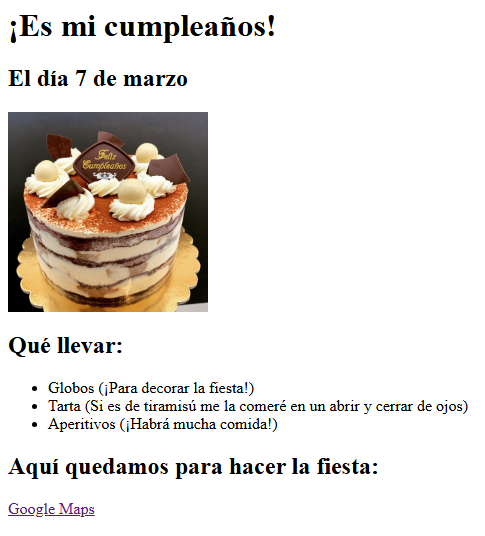
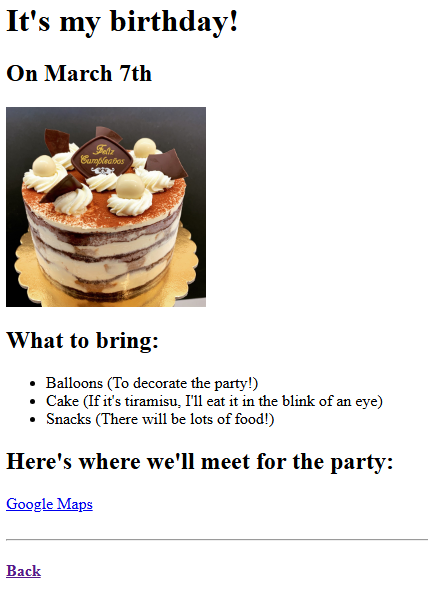
Second Commit

Changed region(s): [[0.0, 0.0, 0.5771, 0.597], [0.0, 0.6269, 0.972, 0.8955], [0.0, 0.9254, 0.2126, 0.9851]]

diff --git a/pages/pelis.html b/pages/pelis.html
@@ -1,18 +1,18 @@
-<!-- Write your code below -->
- <h1>Las mejores películas de acuerdo a Fernando</h1>
- <h2>Mi Top 3 de Películas</h2>
- <hr />
- <h3>Oppenheimer</h3>
- <p>Cuando vi esta película, no pude describir lo que sentía. Una mezcla de emoción, nervios y felicidad que me recorría por todo el cuerpo. Simplemente me encantó, desde la historia, pasando por los escenarios, las vestimentas, la ambientación, la música, el sonido, los personajes, hasta la actuación y cómo se desarrollaron las escenas. Una pasada</p> <img src="https://pics.filmaffinity.com/Oppenheimer-828933592-large.jpg" alt="Oppenheimer" width="200" height="300">
- <br>
- <h3>Evangelion 3.0+1.0</h3>
-    <p>Evangelion 3.0+1.0: Thrice Upon a Time es una película que se convirtió en mi favorita de estilo anime. Ya no solo por cómo concluye la historia que las anteriores películas fueron construyendo, sino la animación, la ejecución, los valores, la música, los personajes... Sin duda, mi segunda película favorita.</p>
-    <img src="https://s4.anilist.co/file/anilistcdn/media/anime/cover/large/bx3786-Tpt9iM72dxTv.jpg" alt="Evangelion 3.0+1.0" width="200" height="300">
-    <br>
- <h3>Look Back</h3>
- <p>Look Back es una película que vi con mi novia hace ya un tiempo. La premisa es simple, unas chicas que se conocen porque ambas publican para el periódico de su escuela, una paisajes y la otra tiras cómicas. Se hacen amigas y deciden formar un dúo de mangakas. El resto ya sería spoiler por lo que no contaré más, pero es otra película que vale la pena ver.</p>
- <img src="https://s4.anilist.co/file/anilistcdn/media/anime/cover/large/bx174788-9LsUnn0oEppv.jpg" alt="Look Back" width="200" height="300">
+<h1>The Best Movies According to Mystden</h1>
+<h2>My Top 3 Movies</h2>
+<hr />
+<h3>Oppenheimer</h3>
+<p>When I saw this movie, I couldn't describe what I felt. A mix of emotion, nervousness, and happiness that ran through my entire body. I simply loved it, from the story, to the settings, the costumes, the atmosphere, the music, the sound, the characters, and how the scenes developed. Amazing.</p>
+<img src="https://pics.filmaffinity.com/Oppenheimer-828933592-large.jpg" alt="Oppenheimer" width="200" height="300">
+<br>
+<h3>Evangelion 3.0+1.0</h3>
+<p>Evangelion 3.0+1.0: Thrice Upon a Time is a movie that became my favorite anime-style film. Not just for how it concludes the story that the previous movies were building, but for the animation, execution, values, music, characters... Without a doubt, my second favorite movie.</p>
+<img src="https://s4.anilist.co/file/anilistcdn/media/anime/cover/large/bx3786-Tpt9iM72dxTv.jpg" alt="Evangelion 3.0+1.0" width="200" height="300">
+<br>
+<h3>Look Back</h3>
+<p>Look Back is a movie I watched with my girlfriend some time ago. The premise is simple: two girls who meet because they both publish in their school newspaper, one landscapes and the other comic strips. They become friends and decide to form a mangaka duo. The rest would be a spoiler so I won't tell more, but it's another movie worth watching.</p>
+<img src="https://s4.anilist.co/file/anilistcdn/media/anime/cover/large/bx174788-9LsUnn0oEppv.jpg" alt="Look Back" width="200" height="300">
 <br><br>
- <hr />
-<a href="./proyectos.html"><h4>Volver</h4></a>
+<hr />
+<a href="./proyectos.html"><h4>Back</h4></a>
 <br>

diff --git a/index.html b/index.html
@@ -1,16 +1,48 @@
 <!DOCTYPE html>
-<html lang="es-ES">
+<html lang="en">
 <head>
     <meta charset="UTF-8">
     <meta name="viewport" content="width=device-width, initial-scale=1.0">
     <title>Capstone Project - HTML</title>
 </head>
 <body>
-    <h2>Proyecto final - HTML</h2>
-   <p>¡Hey, hola! Soy <strong>Mystden</strong>, un desarrollador web junior. Este es mi proyecto final de HTML, siguiendo el curso <br> <a href="https://www.udemy.com/course/the-complete-web-development-bootcamp/">The Complete Full-Stack Web Development Bootcamp
-</a> de <strong>Angela Yu</strong> en el que muestro mis proyectos <br>(una invitación de cumpleaños y una lista de películas). <br> Espero que lo disfrutes.</p>
-<hr />
-  <a href="./pages/proyectos.html"><h4>Proyectos</h4></a>
-  <a href="./pages/sobremi.html"><h4>Sobre mí</h4></a>
+    <header>
+        <h1>Hello, I'm Mystden</h1>
+    </header>
+
+    <main>
+        <section>
+            <p>Welcome to my HTML portfolio! I am a Spanish student of 19 years passionate about programming and web development.</p>
+            <p>I love learning new technologies and constantly improving my skills.</p>
+        </section>
+
+        <section>
+            <h2>Skills</h2>
+            <ul>
+                <li>Git ✅</li>
+                <li>GitHub ✅</li>
+                <li>SQL ✅</li>
+                <li>HTML ✅</li>
+                <li>Linux ✅</li>
+                <li>Windows ✅</li>
+            </ul>
+        </section>
+
+        <section>
+            <h2>Interests</h2>
+            <p>I'm interested in web application development, artificial intelligence, cybersecurity, and cross-platform application development.</p>
+        </section>
+
+        <section>
+            <h2>Capstone Project - HTML</h2>
+            <p>This is my final HTML project, following the course <br> <a href="https://www.udemy.com/course/the-complete-web-development-bootcamp/">The Complete Full-Stack Web Development Bootcamp</a> by <strong>Angela Yu</strong> in which I showcase my projects <br>(a birthday invitation and a movie list) and a contact page. <br> I hope you enjoy it!</p>
+        </section>
+
+    </main>
+    <br>
+    <hr />
+    <a href="./pages/proyectos.html"><h4>Projects</h4></a>
+    <a href="./pages/contacto.html"><h4>Contact</h4></a>
+    <br>
 </body>
 </html>

diff --git a/pages/cumple.html b/pages/cumple.html
@@ -1,20 +1,18 @@
-<!-- Example image URL -->
- <h1>¡Es mi cumpleaños!</h1>
- <h2>El día 7 de marzo</h2>
+<h1>It's my birthday!</h1>
+<h2>On March 7th</h2>
 <img src="../assets/images/tartita-de-tiramisu.jpg" width="200" length="200"/>
 
-<h2>Qué llevar:</h2>
+<h2>What to bring:</h2>
 <ul>
-    <li>Globos (¡Para decorar la fiesta!)</li>
-    <li>Tarta (Si es de tiramisú me la comeré en un abrir y cerrar de ojos)</li>
-    <li>Aperitivos (¡Habrá mucha comida!)</li>
+    <li>Balloons (To decorate the party!)</li>
+    <li>Cake (If it's tiramisu, I'll eat it in the blink of an eye)</li>
+    <li>Snacks (There will be lots of food!)</li>
 </ul>
 
-<h2>Aquí quedamos para hacer la fiesta:</h2>
-<!-- Example Google Maps Link --> 
+<h2>Here's where we'll meet for the party:</h2>
 <a href="https://www.google.com/maps/@35.7040744,139.5577317,3a,75y,289.6h,87.01t,0.72r/data=!3m6!1e1!3m4!1sgT28ssf0BB2LxZ63JNcL1w!2e0!7i13312!8i6656">Google Maps</a>
 
 <br><br>
- <hr />
-<a href="./proyectos.html"><h4>Volver</h4></a>
+<hr />
+<a href="./proyectos.html"><h4>Back</h4></a>
 <br>

diff --git a/pages/proyectos.html b/pages/proyectos.html
@@ -1,21 +1,18 @@
-<!-- TODO 1: Create the HTML Boilerplate -->
 <!DOCTYPE html>
-<html lang="es-ES">
+<html lang="en">
 <head>
     <meta charset="UTF-8">
     <meta name="viewport" content="width=device-width, initial-scale=1.0">
-    <title>Capstone Project - HTML | Proyectos</title>
+    <title>Capstone Project - HTML | Projects</title>
 </head>
 <body>
-    <h2>Mis Proyectos de HTML</h2>
-    <a href="./pelis.html"><h3>Mis películas favoritas </h3></a>
+    <h2>My HTML Projects</h2>
+    <a href="./pelis.html"><h3>My Favorite Movies</h3></a>
     <a href="./pelis.html"><img src="../assets/images/pelis.png" width="200" length="200"></a>
-    <a href="./cumple.html"><h3>Invitación de cumpleaños</h3></a>
+    <a href="./cumple.html"><h3>Birthday Invitation</h3></a>
     <a href="./cumple.html"><img src="../assets/images/cumple.png" width="200" length="200"></a>
     <hr />
-    <a href="../index.html"><h4>Inicio</h4></a>
-    <a href="./sobremi.html"><h4>Sobre mí</h4></a>
+    <a href="../index.html"><h4>Home</h4></a>
     <br>
-
 </body>
 </html>
